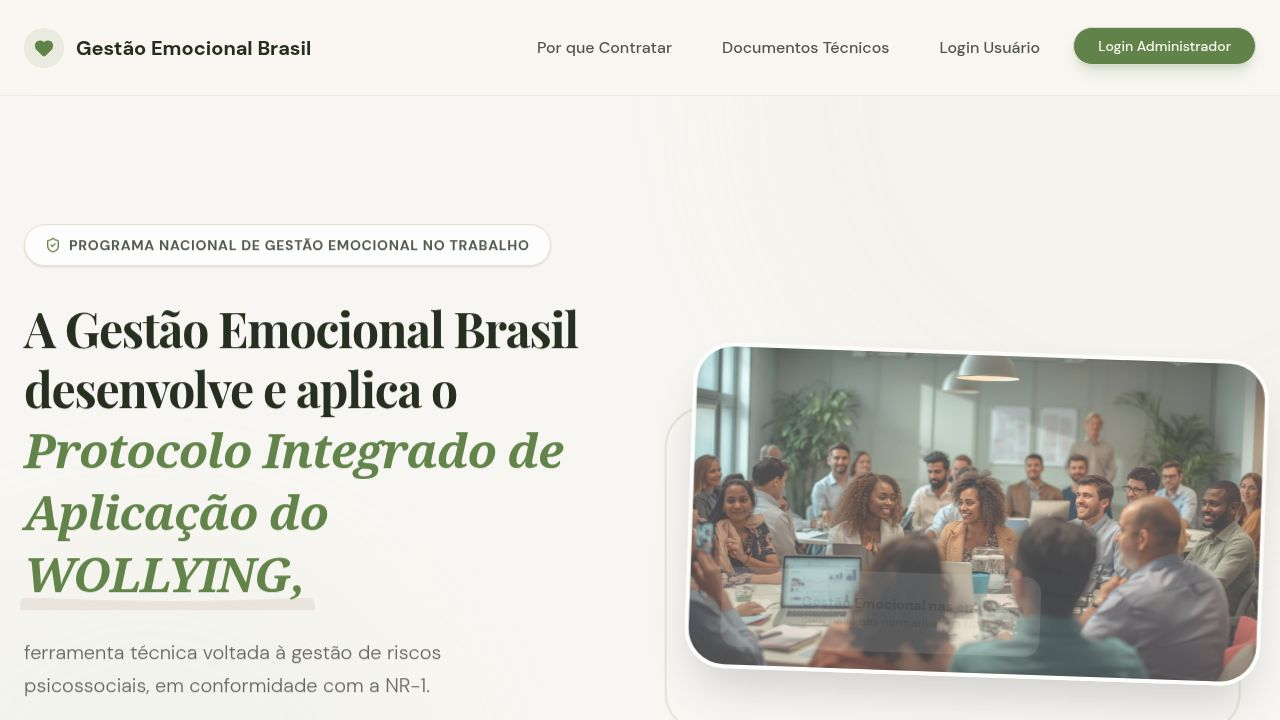
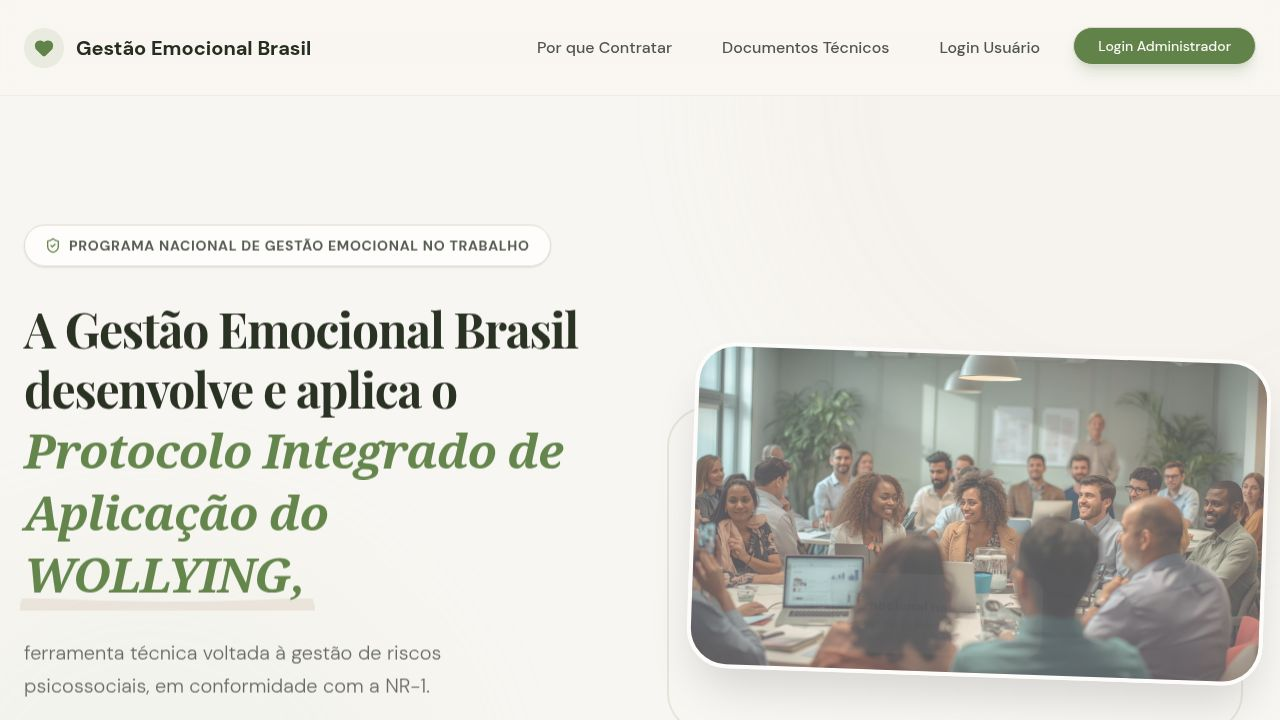
Update hero image to center focus and adjust framing
Updates the main hero image to use `object-top` for better framing and ensures it is correctly placed in the public directory for production.

Replit-Commit-Author: Agent
Replit-Commit-Session-Id: 4cc987fa-519f-4bd8-822d-c3cd19681768
Replit-Commit-Checkpoint-Type: full_checkpoint
Replit-Commit-Event-Id: bbf14033-1c42-42a9-a30d-c72c0a7a58e5
Replit-Commit-Screenshot-Url: https://storage.googleapis.com/screenshot-production-us-central1/67695f3d-8801-4f3e-8069-46e3bb012fd4/4cc987fa-519f-4bd8-822d-c3cd19681768/oVsGkeW
Replit-Helium-Checkpoint-Created: true

diff --git a/client/src/App.tsx b/client/src/App.tsx
@@ -286,7 +286,7 @@ const Landing = () => (
                   <img 
                     src="/images/kaka-ribeiro-new.jpg" 
                     alt="Kaká Ribeiro - Protocolo Wollying" 
-                    className="w-full h-full object-cover"
+                    className="w-full h-full object-cover object-top"
                   />
                   <div className="absolute inset-0 bg-gradient-to-t from-black/60 via-transparent to-transparent flex items-end p-8">
                     <p className="text-white font-medium text-lg border-l-2 border-primary pl-4">
